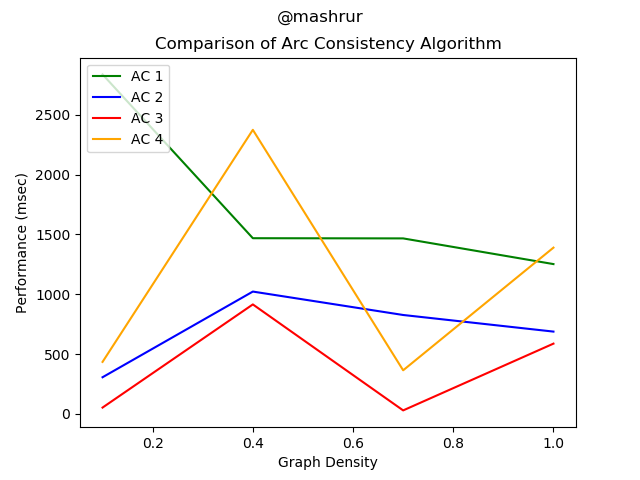
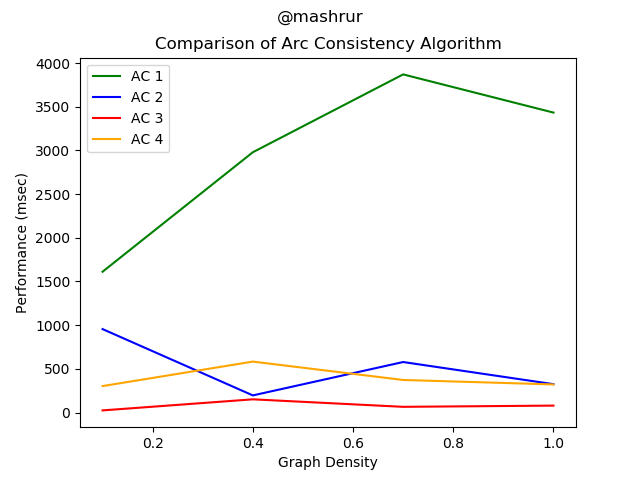
AC implemented

diff --git a/visualize_029.py b/visualize_029.py
@@ -190,7 +190,7 @@ def visualize_density(sz):
         domainSize = sz
         constraints = {}
         domain = [[0 for x in range(domainSize)] for y in range(node)]  # node x domainSize size list
-        edge = node//density
+        edge = (density*(node*(node-1)))//2
         edge = int(edge)
         print('lol', density, edge)
         g = nw.gnm_random_graph(node, edge, False)
@@ -223,7 +223,7 @@ def visualize_density(sz):
     plt.title('Comparison of Arc Consistency Algorithm')
     plt.suptitle('@mashrur')
     plt.legend(loc='upper left')
-    plt.savefig('density_small_domain.png')
+    plt.savefig('density_large_domain.png')
     plt.show()
 
 def visualize_domainReduction(domainSiz):

diff --git a/main_029.py b/main_029.py
@@ -39,7 +39,7 @@ def executeAC4(node, edge, domainSize, g, constraints, domain):
 
 if __name__ == '__main__':
     # vis.visualize_nodes(100)
-    vis.visualize_density(20)
+    vis.visualize_density(100)
     #vis.visualize_edge(20)
     # vis.visualize_domainReduction(30)
     print('---- DONE ----')
